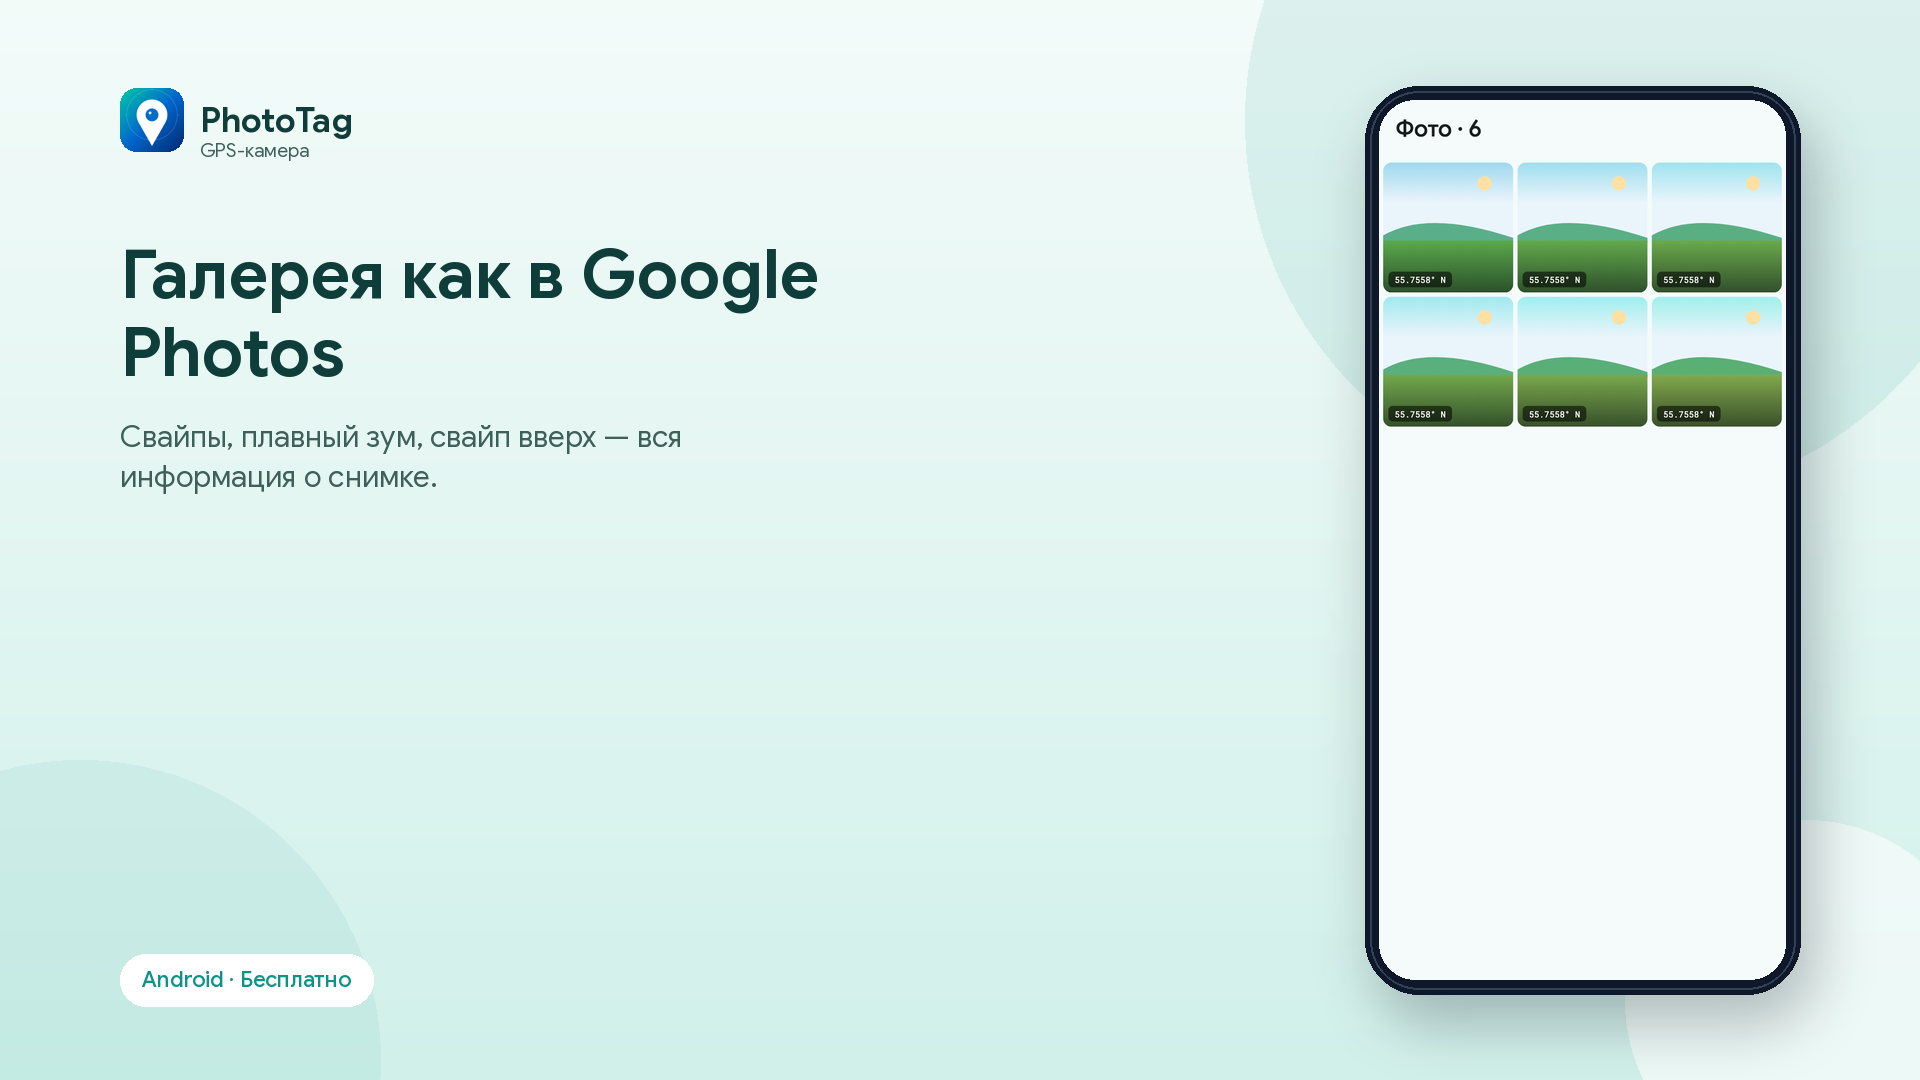
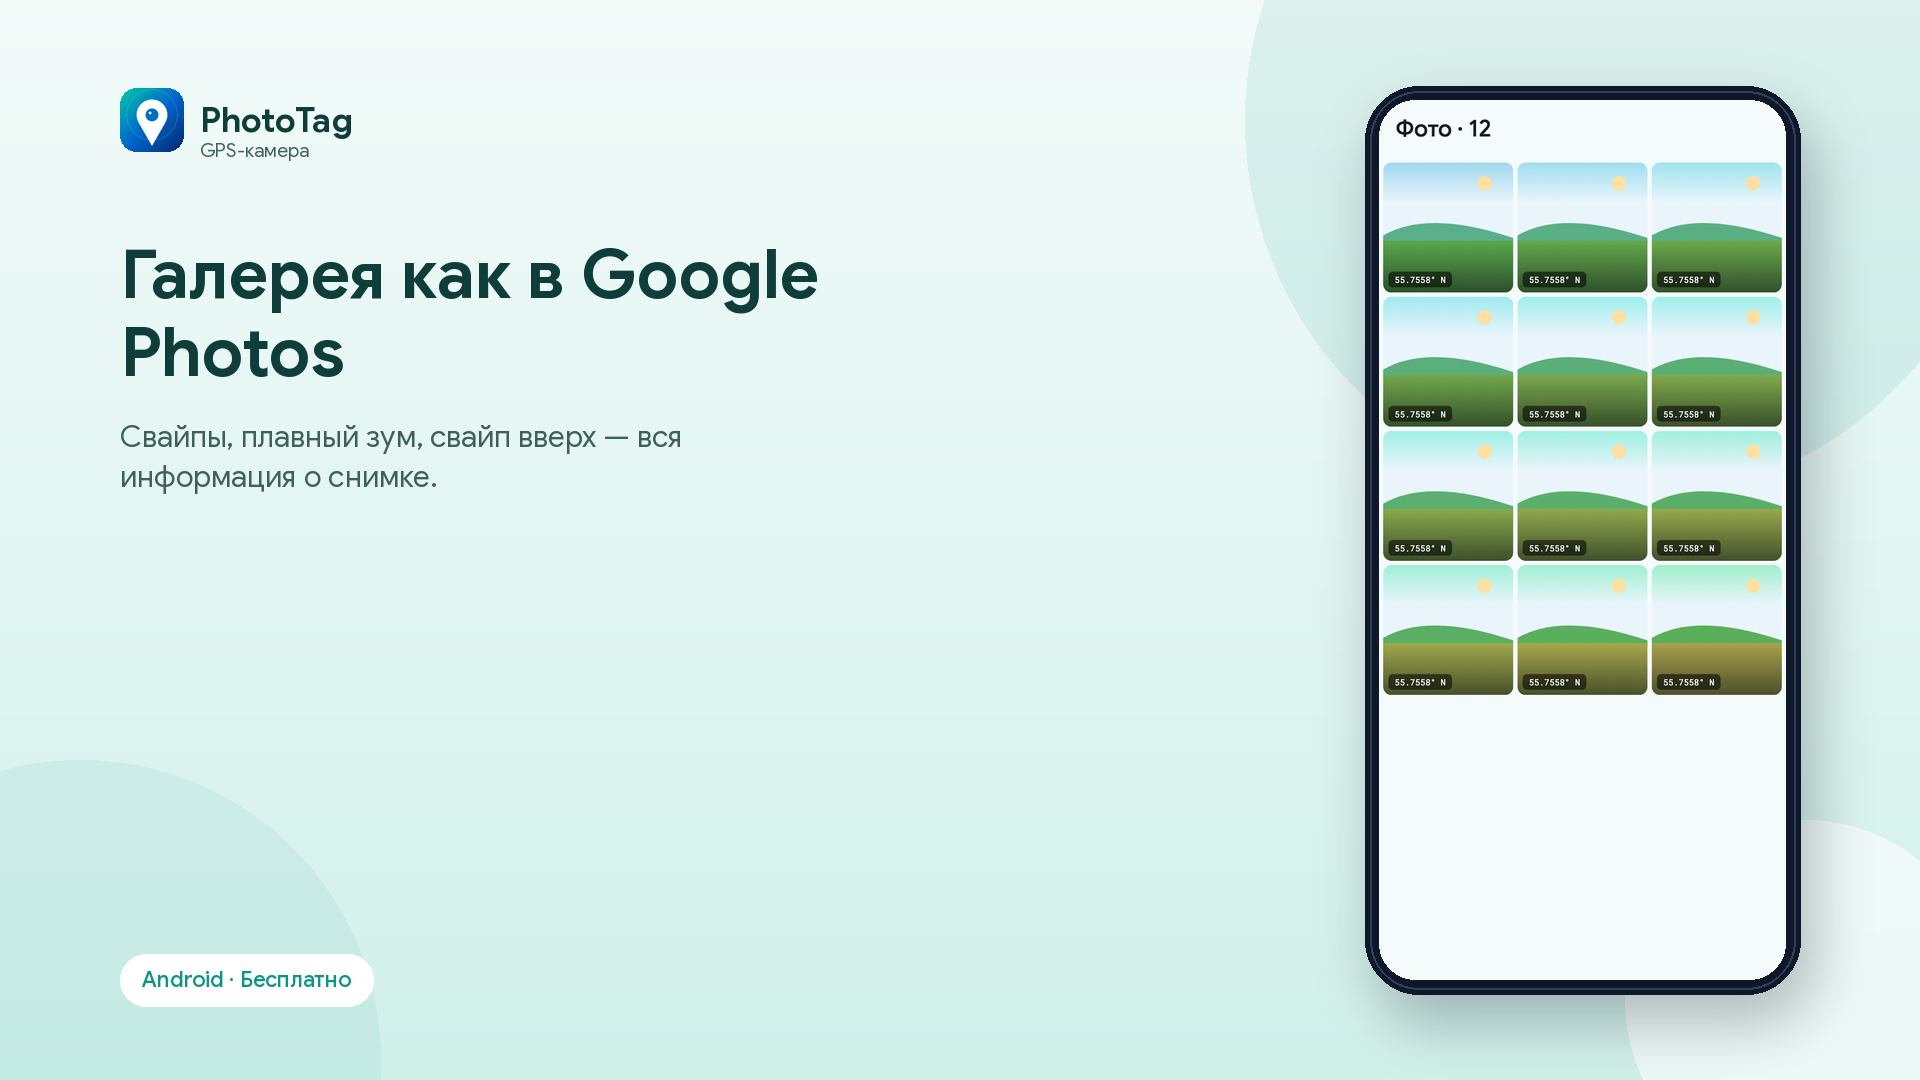
Fill the gallery mock and refresh 16:9 screenshots

Changed region(s): [[0.7188, 0.3972, 0.9375, 0.6417]]

diff --git a/tool/screenshots_test.dart b/tool/screenshots_test.dart
@@ -439,7 +439,7 @@ class _GalleryMock extends StatelessWidget {
   @override
   Widget build(BuildContext context) {
     return Scaffold(
-      appBar: AppBar(title: Text(AppLocalizations.of(context).photosAllCount(6))),
+      appBar: AppBar(title: Text(AppLocalizations.of(context).photosAllCount(12))),
       body: GridView.builder(
         padding: const EdgeInsets.all(4),
         gridDelegate: const SliverGridDelegateWithFixedCrossAxisCount(
@@ -447,7 +447,7 @@ class _GalleryMock extends StatelessWidget {
           mainAxisSpacing: 4,
           crossAxisSpacing: 4,
         ),
-        itemCount: 6,
+        itemCount: 12,
         itemBuilder: (BuildContext context, int index) {
           return ClipRRect(
             borderRadius: BorderRadius.circular(8),
